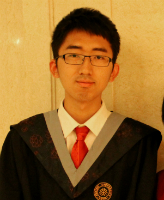
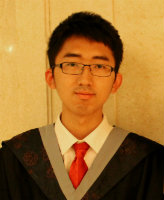
add photos

diff --git a/people.html b/people.html
@@ -259,8 +259,8 @@ title: People
               <i class="fa fa-envelope"></i>&nbsp;&nbsp; 411353539(at)qq.com<br>
           </p>
     </td>
-     <td> &nbsp;&nbsp;</td>  
-    <td>  <p> <img style="vertical-align:bottom;width:164px;height:200px;" alt="dai" title="" src="{{site.baseurl}}/images/portrait/dairili.jpg"> </p>
+     <td> &nbsp;&nbsp;&nbsp;</td>  
+    <td>  <p> <img style="vertical-align:bottom;width:164px;height:200px;" alt="dai" title="" src="{{site.baseurl}}/images/portrait/dairilei.jpg"> </p>
           <p> <i class="fa fa-user"></i>&nbsp;&nbsp;&nbsp;Ri-Lei Dai<br>
               <i class="fa fa-credit-card"></i> &nbsp;Technician<br>
               <i class="fa fa-envelope"></i>&nbsp;&nbsp; dairilei(at)163.com<br>

diff --git a/_site/people.html b/_site/people.html
@@ -351,8 +351,8 @@
               <i class="fa fa-envelope"></i>&nbsp;&nbsp; 411353539(at)qq.com<br>
           </p>
     </td>
-     <td> &nbsp;&nbsp;</td>  
-    <td>  <p> <img style="vertical-align:bottom;width:164px;height:200px;" alt="dai" title="" src="/images/portrait/dairili.jpg"> </p>
+     <td> &nbsp;&nbsp;&nbsp;</td>  
+    <td>  <p> <img style="vertical-align:bottom;width:164px;height:200px;" alt="dai" title="" src="/images/portrait/dairilei.jpg"> </p>
           <p> <i class="fa fa-user"></i>&nbsp;&nbsp;&nbsp;Ri-Lei Dai<br>
               <i class="fa fa-credit-card"></i> &nbsp;Technician<br>
               <i class="fa fa-envelope"></i>&nbsp;&nbsp; dairilei(at)163.com<br>
